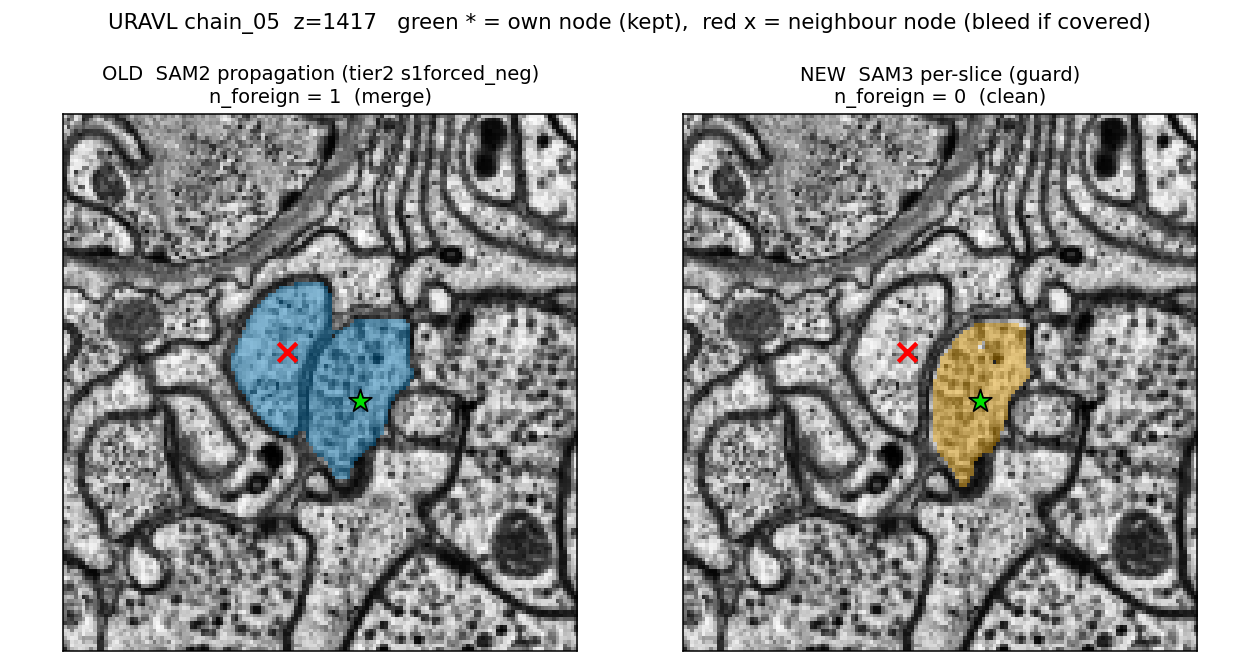
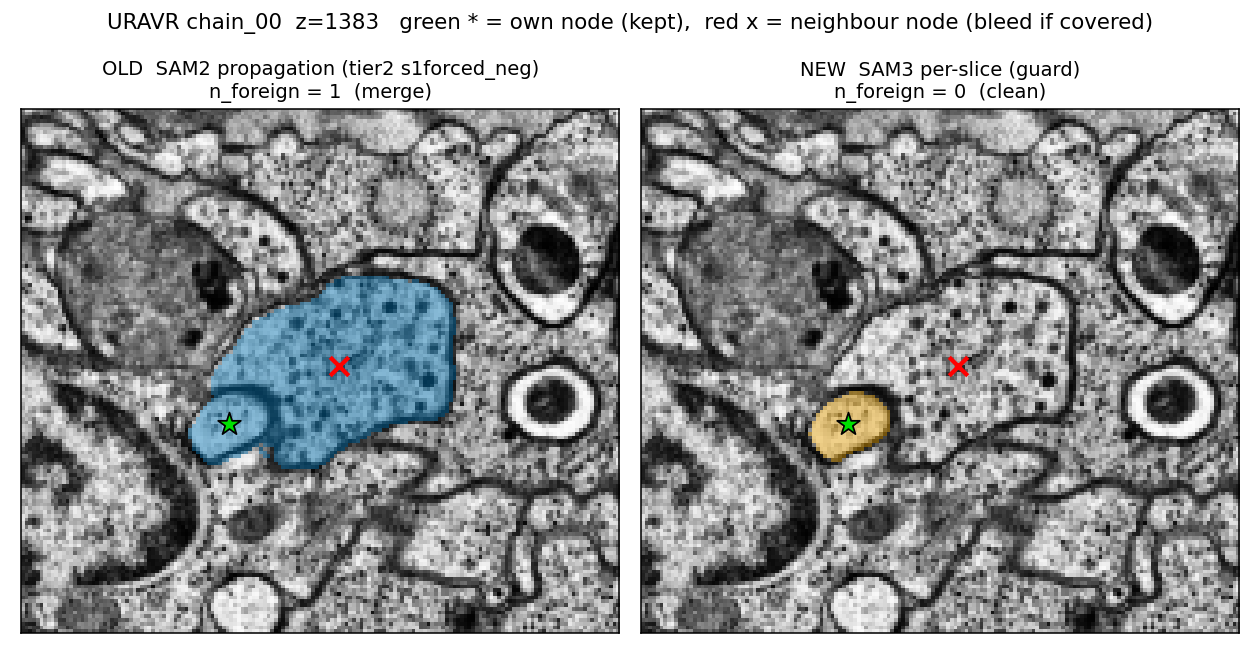
presentation: fold in review feedback on methods, metrics, and video slides
- 11e: drop a caption sentence about single-chain dropout that read as
  confusing next to the full-scope claim right before it
- 08-results-arc: retitled away from "beats" framing to plain "method x
  backbone, on the node metric"; dropped the Coverage column (its exact
  provenance could not be traced to reproducible code, unlike Dropout,
  which is verified); added an explicit caveat that these signals miss
  a mask that locked onto the wrong compartment, since mitochondria and
  nuclei both have real membranes too
- 09-before-after: swapped in a clearer real illustration (URAVR
  chain_00 z=1383, where the old mask visibly fills most of a distinct
  neighbouring compartment) in place of the harder-to-read original
- 19-tried-organelle-detectors: dropped the results table, kept the two
  spot-check images larger, per request to focus on the images
- 18-tried-temporal pulled from the live deck for now (not yet
  independently reverified to the presenter's satisfaction), file kept
  on disk for later

diff --git a/presentation/slides/08-results-arc.md b/presentation/slides/08-results-arc.md
@@ -1,34 +1,39 @@
-# Per-slice beats propagation; SAM3 tightens both
+# Method x backbone, on the node metric
 
-<div class="mt-6 mx-auto max-w-[60rem]">
+<div class="mt-4 mx-auto max-w-[60rem]">
 
 Matched on the same 605 chains (15 shared neurons). Bleed rate = fraction of frames with a
-foreign node (another neuron's skeleton point) inside the mask, lower is better.
+foreign node inside the mask. Dropout = mask misses its own node entirely.
 
-| Method | Bleed rate | Total foreign nodes | Dropout | Coverage |
-|---|---|---|---|---|
-| SAM2 per-slice | 0.113 | 4,747 | 0.000 | 0.999 |
-| SAM2 propagation | 0.329 | 3,425 | 0.009 | 0.871 |
-| **SAM3 per-slice** | **0.087** | **757** | **0.000** | **0.999** |
-| SAM3 propagation | 0.217 | 1,962 | 0.013 | 0.882 |
+| Method | Bleed rate | Total foreign nodes | Dropout |
+|---|---|---|---|
+| SAM2 per-slice | 0.113 | 4,747 | 0.000 |
+| SAM2 propagation | 0.329 | 3,425 | 0.009 |
+| **SAM3 per-slice** | **0.087** | **757** | **0.000** |
+| SAM3 propagation | 0.217 | 1,962 | 0.013 |
 
 </div>
 
-<div class="mt-4 mx-auto max-w-[60rem] opacity-80">
+<div class="mt-3 mx-auto max-w-[60rem] text-[0.92rem] opacity-80">
 
-Per-slice wins on every column, both backbones. SAM3 tightens both methods over SAM2, most
-visibly on severity: SAM3 per-slice cuts total foreign nodes 84 percent (4,747 to 757) versus
-SAM2 per-slice, a bigger jump than the frame-rate column alone suggests.
+These three signals catch gross bleed and complete misses, not a mask that locked onto the wrong
+compartment. A mitochondrion or a nucleus has a real, well-defined membrane too, so a mask that
+captures one instead of the cell can still read clean here, that gap is the next few slides.
 
 </div>
 
 <!--
-Opening: the comparison that actually matters, method x backbone, not a chronological journey
+Opening: what the node metric alone says, method x backbone, before the honest caveat
 
 - two axes: propagation vs per-slice (method), SAM2 vs SAM3 (backbone)
-- per-slice beats propagation within each backbone, every column
-- SAM3 beats SAM2 within each method, but by a lot more on total severity than on frame rate,
-  worth quoting both so they are not confused
+- per-slice reads better than propagation within each backbone on all three columns; SAM3 reads
+  better than SAM2 within each method, more on total severity than on frame rate, worth quoting
+  both so they are not confused
+- deliberately not calling this "X beats Y": these three numbers are one ruler, not the whole
+  truth, the next line says why
+- the real caveat: none of these three numbers catch a mask that is confidently the WRONG thing,
+  mitochondria and nuclei both have real membranes, so a mask stuck on one reads as clean here,
+  covered honestly a few slides ahead
 - SAM3's real cost is on the next slide: it is not a clean win
 - many-parameter sweeps (config A/B, the full milestone-by-milestone journey) are in the backup
 

diff --git a/presentation/slides/19-tried-organelle-detectors.md b/presentation/slides/19-tried-organelle-detectors.md
@@ -1,26 +1,21 @@
 # Already tried: detect the organelles, not their shape
 
-<div class="fig-2 flex justify-center gap-6 mt-1">
+<div class="fig-2 flex justify-center gap-8 mt-2">
   <div class="text-center">
-    <img src="/images/mitonet-spotcheck.png" style="max-height:100px !important; max-width:100%; object-fit:contain;" />
-    <div class="opacity-70 text-[0.8rem] mt-1">MitoNet: mitochondria</div>
+    <img src="/images/mitonet-spotcheck.png" style="max-height:230px !important; max-width:100%; object-fit:contain;" />
+    <div class="opacity-70 text-[0.9rem] mt-1">MitoNet: mitochondria</div>
   </div>
   <div class="text-center">
-    <img src="/images/nucleonet-spotcheck.png" style="max-height:100px !important; max-width:100%; object-fit:contain;" />
-    <div class="opacity-70 text-[0.8rem] mt-1">NucleoNet: nuclei</div>
+    <img src="/images/nucleonet-spotcheck.png" style="max-height:230px !important; max-width:100%; object-fit:contain;" />
+    <div class="opacity-70 text-[0.9rem] mt-1">NucleoNet: nuclei</div>
   </div>
 </div>
 
-<div class="mt-2 mx-auto max-w-[56rem] text-[0.88rem] leading-tight">
+<div class="mt-3 mx-auto max-w-[56rem] text-center text-[0.95rem]">
 
 Both real, pretrained EM detectors (empanada, BSD-3-Clause), generalize on sight: tight
-boundaries, no cross-organelle false positives. Real gate, same bleed measurement as the
-membrane-fill slide (z=1456, 117 neurons, `uf_min=0.6`), baseline `new_bleed=7`:
-
-| Organelle mask source | New bleed cells | Moves the floor? |
-|---|---|---|
-| Classical shape/intensity filter | 7 | No, flat |
-| **MitoNet + NucleoNet (real detections)** | **6** | Barely, one cell |
+boundaries, no cross-organelle false positives. But even a correct organelle mask barely dents
+the ridge map's bleed floor, one cell out of 16 to 18 filled at best.
 
 </div>
 

diff --git a/presentation/slides/09-before-after.md b/presentation/slides/09-before-after.md
@@ -4,15 +4,16 @@
   <img src="/images/before-after.png" class="max-h-[52vh] max-w-[92%] object-contain" />
 </div>
 
-<div class="mt-2 text-center opacity-80">URAVL, one slice, a real fix: the SAM2 mask swallows a neighbour's node (red); the SAM3 mask stays in its own cell.</div>
+<div class="mt-2 text-center opacity-80">URAVR, one slice, a real fix: the SAM2 mask fills most of the neighbouring cell (red node); the SAM3 mask stays inside its own compartment.</div>
 
 <div class="mt-2 text-center" style="color:#D55E00">The real cost: SAM3 is more conservative (underfill 0.62 to 1.09), so it also misses more of the true cell, plus about 2.2 to 2.5x the compute.</div>
 
 <!--
 Opening: one real fix, but the honest picture is a tradeoff, not a win across the board
 
-- left: SAM2 mask fuses two adjacent profiles, swallows the neighbour's skeleton node (red marker)
-- right: SAM3 mask sits inside the correct cell, that bleed is gone
+- left: SAM2 mask spreads across a real membrane wall and fills most of the neighbouring cell,
+  clearly past the boundary, swallowing its skeleton node (red marker)
+- right: SAM3 mask sits inside the correct compartment only, that bleed is gone
 - but SAM3's masks are tighter everywhere, not just here: underfill nearly doubles (0.62 to 1.09),
   meaning it also leaves more of the true cell uncovered on average, that cost does not show up in
   a single "look, it's fixed" picture

diff --git a/presentation/slides/11e-current-work-video-propagation.md b/presentation/slides/11e-current-work-video-propagation.md
@@ -5,7 +5,7 @@
          style="max-height: 330px; max-width: 92%; object-fit: contain;"></video>
 </div>
 
-<div class="mt-3 text-center opacity-80">Propagation's dense map over the same band (z 1293 to 1628), same colours, full 133-neuron scope. Every slice has at least one mask; individual chains still gap before their own anchor establishes, that cost shows up as the dropout rate two slides ahead, not as a frame-level hole here.</div>
+<div class="mt-3 text-center opacity-80">Propagation's dense map over the same band (z 1293 to 1628), same colours, full 133-neuron scope.</div>
 
 <!--
 Opening: the propagation version of the last slide, same volume, same colours, different method

diff --git a/presentation/slides.md b/presentation/slides.md
@@ -130,9 +130,7 @@ src: ./slides/11-where-it-breaks.md
 src: ./slides/17-tried-autofill.md
 ---
 
----
-src: ./slides/18-tried-temporal.md
----
+<!-- 18-tried-temporal.md pulled from the live deck for now, not verified yet. File kept on disk. -->
 
 ---
 src: ./slides/19-tried-organelle-detectors.md
